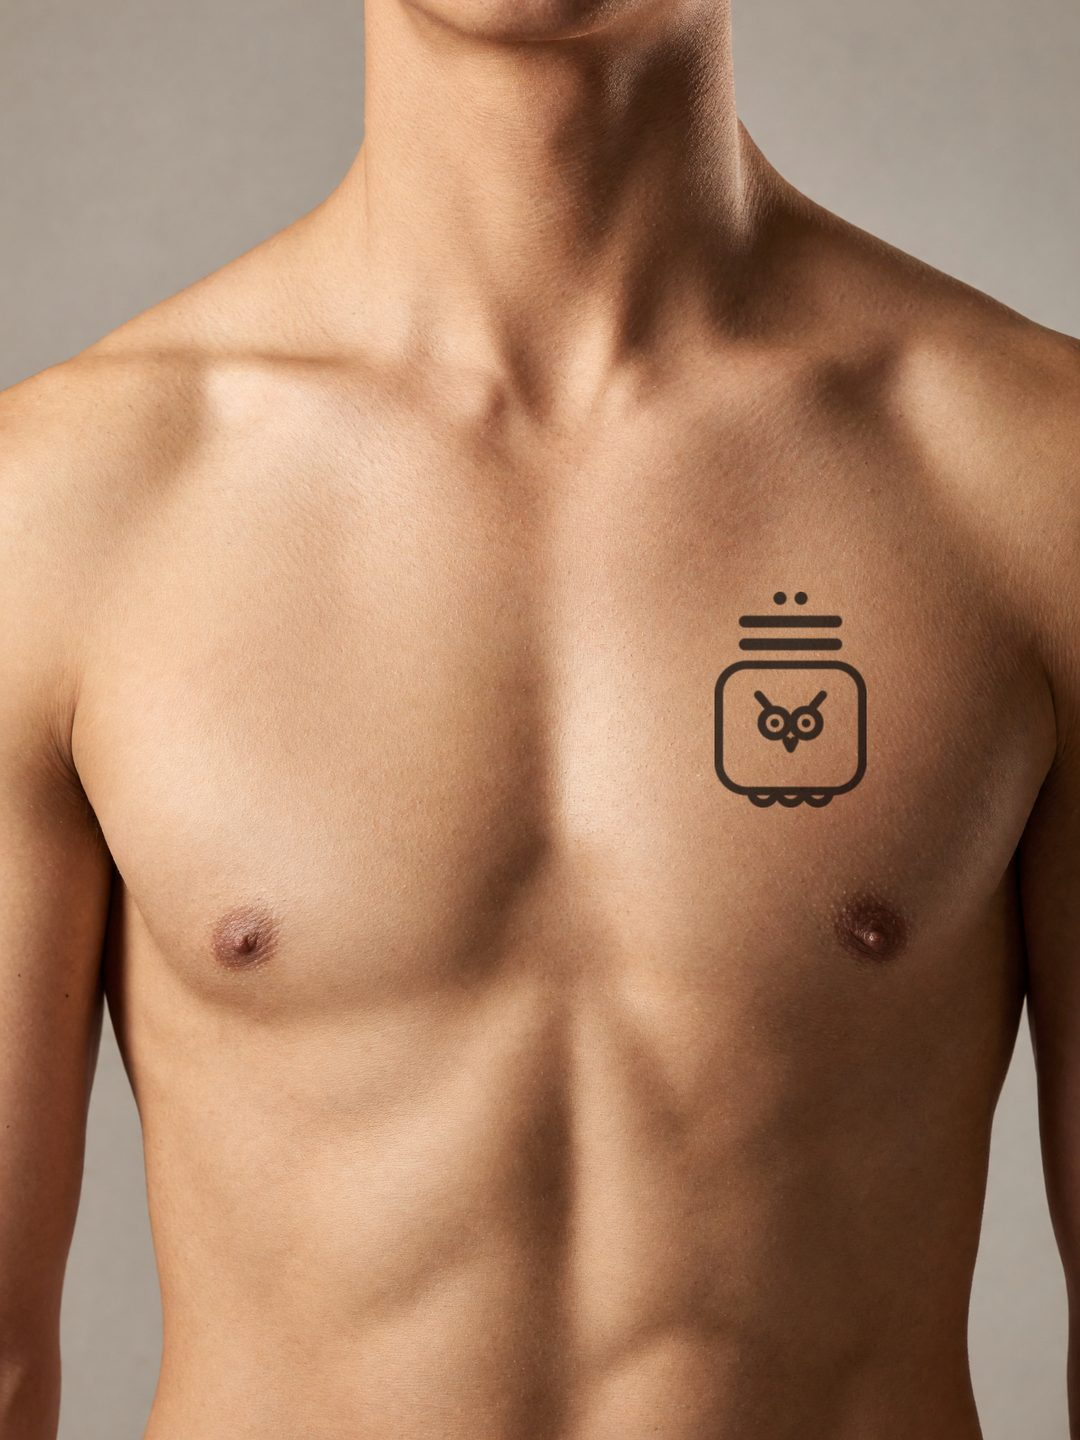
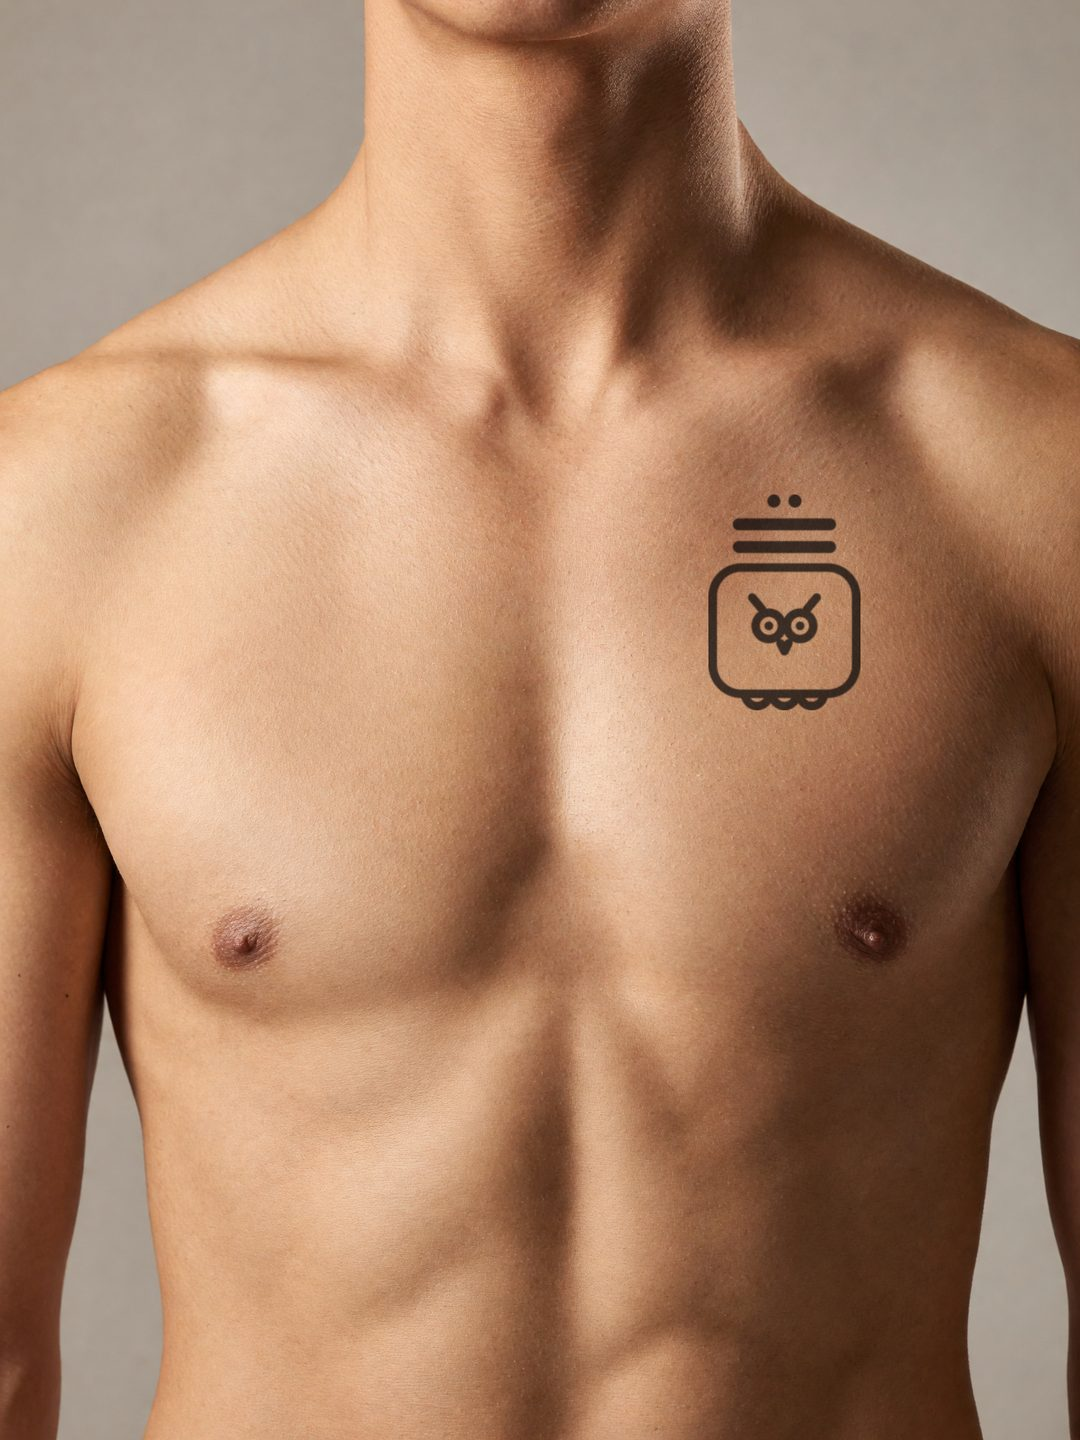
Shoulder cross follows the deltoid; chest and back Maya tattoos sit higher

Changed region(s): [[0.6417, 0.3438, 0.825, 0.5625]]

diff --git a/index.html b/index.html
@@ -802,7 +802,7 @@
 
 <script>
 /* ═══ CONFIG — the only lines you need to edit (see docs/LAUNCH.md) ═══ */
-const MEDIA_V="14";   /* bump when a gallery or example image changes, so browsers fetch the new one */
+const MEDIA_V="15";   /* bump when a gallery or example image changes, so browsers fetch the new one */
 const mv=u=>u+(u.includes("?")?"&":"?")+"v="+MEDIA_V;
 const CONFIG={
   payApi:"",        // your payment worker, e.g. "https://starot-pay.yourname.workers.dev" — empty = tattoo files download free

diff --git a/tools/higgsfield/composite-gallery.py b/tools/higgsfield/composite-gallery.py
@@ -9,6 +9,7 @@ an optional crop. Same ink model as the other compositors: the design's alpha, s
 little grain, multiplied into the skin so its texture shows through."""
 import sys
 from pathlib import Path
+import numpy as np
 from PIL import Image, ImageFilter, ImageChops
 
 ROOT = Path(__file__).resolve().parents[2]
@@ -18,10 +19,10 @@ MAYA = DES / "maya-example"            # 12 Kib, born 17 March 1992: day sign, t
 
 JOBS = {
     # the Maya count
-    "maya-day-chest-man":      ("chest-plate-man-v25.png", MAYA / "maya-day.png", (1300, 1150), 250, 1, 1, 0, None, None),
-    "maya-trecena-back-woman": ("back-plate-woman-v25.png", MAYA / "maya-trecena.png", (932, 1190), 220, 1, 1, 0, None, None),
+    "maya-day-chest-man":      ("chest-plate-man-v25.png", MAYA / "maya-day.png", (1290, 990), 250, 1, 1, 0, None, None),
+    "maya-trecena-back-woman": ("back-plate-woman-v25.png", MAYA / "maya-trecena.png", (932, 1010), 220, 1, 1, 0, None, None),
     "maya-tone-forearm-woman": ("forearm-upper-plate-woman-v24.png", MAYA / "maya-tone.png", (1600, 875), 220, 1, .92, 11, None, None),
-    "maya-cross-deltoid-man":  ("deltoid-plate-man-v24.png", MAYA / "maya-cross.png", (1050, 1180), 640, .9, 1, 0, None, None),
+    "maya-cross-deltoid-man":  ("deltoid-plate-man-v24.png", MAYA / "maya-cross.png", (990, 1165), 560, 1, .95, -8, None, None, .5),
     # the sky
     "wheel-thigh-woman":       ("thigh-plate-woman-v25.png", DES / "design-1-natal-wheel.png", (975, 1360), 330, 1, .86, 29, None, None),
     "line-forearm-man":        ("forearm-plate-man-v24.png", DES / "design-4-sun-and-rising-gemini-leo.png", (1400, 1010), 490, 1, 1, -2, None, None),
@@ -46,7 +47,23 @@ def stack(a):
         out.paste(p, ((w - p.width) // 2, y)); y += p.height + gap
     return out
 
-def ink_layer(path, size, sx, sy, angle, layout):
+def wrap(a, k):
+    """Bend the design round a cylinder (a shoulder, a calf): the middle stays, the sides
+    fold away and narrow, as they would on a rounded muscle. k is how much of the half-width
+    the curve takes (0 = flat)."""
+    if not k:
+        return a
+    A = np.asarray(a, dtype=np.float32); h, w = A.shape; c = (w - 1) / 2
+    R = c / np.sin(min(k, .98) * np.pi / 2)            # radius that puts the edge at angle k·90°
+    x = np.arange(w) - c                               # screen offset from the middle
+    s = R * np.arcsin(np.clip(x / R, -1, 1))           # arc length on the skin under that point
+    src = c + s * (c / (R * np.arcsin(min(c / R, 1))))  # stretch so the design still spans the width
+    out = np.empty_like(A)
+    for y in range(h):
+        out[y] = np.interp(src, np.arange(w), A[y])
+    return Image.fromarray(out.clip(0, 255).astype(np.uint8))
+
+def ink_layer(path, size, sx, sy, angle, layout, curve=0):
     a = Image.open(path).convert("RGBA").getchannel("A")
     a = a.crop(a.getbbox())
     if layout == "stack":          # size is the height of the stack
@@ -54,6 +71,7 @@ def ink_layer(path, size, sx, sy, angle, layout):
     else:                          # size is the width
         w, h = size, round(a.height * size / a.width)
     a = a.resize((max(1, round(w * sx)), max(1, round(h * sy))), Image.LANCZOS)
+    a = wrap(a, curve)
     a = a.rotate(angle, resample=Image.BICUBIC, expand=True)
     a = a.filter(ImageFilter.GaussianBlur(0.9))
     noise = Image.effect_noise(a.size, 22).filter(ImageFilter.GaussianBlur(1.2))
@@ -61,9 +79,9 @@ def ink_layer(path, size, sx, sy, angle, layout):
 
 tint = tuple(min(255, round(c * STRENGTH)) for c in INK)
 for name in (sys.argv[1:] or JOBS):
-    plate, design, (cx, cy), size, sx, sy, angle, layout, crop = JOBS[name]
+    plate, design, (cx, cy), size, sx, sy, angle, layout, crop, *more = JOBS[name]
     base = Image.open(RAW / plate).convert("RGB")
-    a = ink_layer(design, size, sx, sy, angle, layout).point(lambda v: round(v * OPACITY))
+    a = ink_layer(design, size, sx, sy, angle, layout, *more).point(lambda v: round(v * OPACITY))
     x, y = cx - a.width // 2, cy - a.height // 2
     region = base.crop((x, y, x + a.width, y + a.height))
     inked = ImageChops.multiply(region, Image.new("RGB", a.size, tint))

diff --git a/docs/MEDIA.md b/docs/MEDIA.md
@@ -47,6 +47,7 @@ the moderation filter, so her plate is an earlier tattoo render with the AI tatt
 is restacked upright and runs down the side of her neck below the ear, in a close-up crop. A side-profile plate
 (`neck-side-plate-woman`) is ready to render once credits are topped up.
 Everything since then goes through one script, `python3 tools/higgsfield/composite-gallery.py`
+(a job can also bend the design round a rounded muscle, as on the shoulder)
 (the wheel on her thigh, the line on his forearm and on the side of her neck, and the four Maya
 designs — 12 Kib, from `media/designs/maya-example/` — on his chest, her back, her inner forearm and
 his shoulder): positions are measured on each plate and kept in the script.
